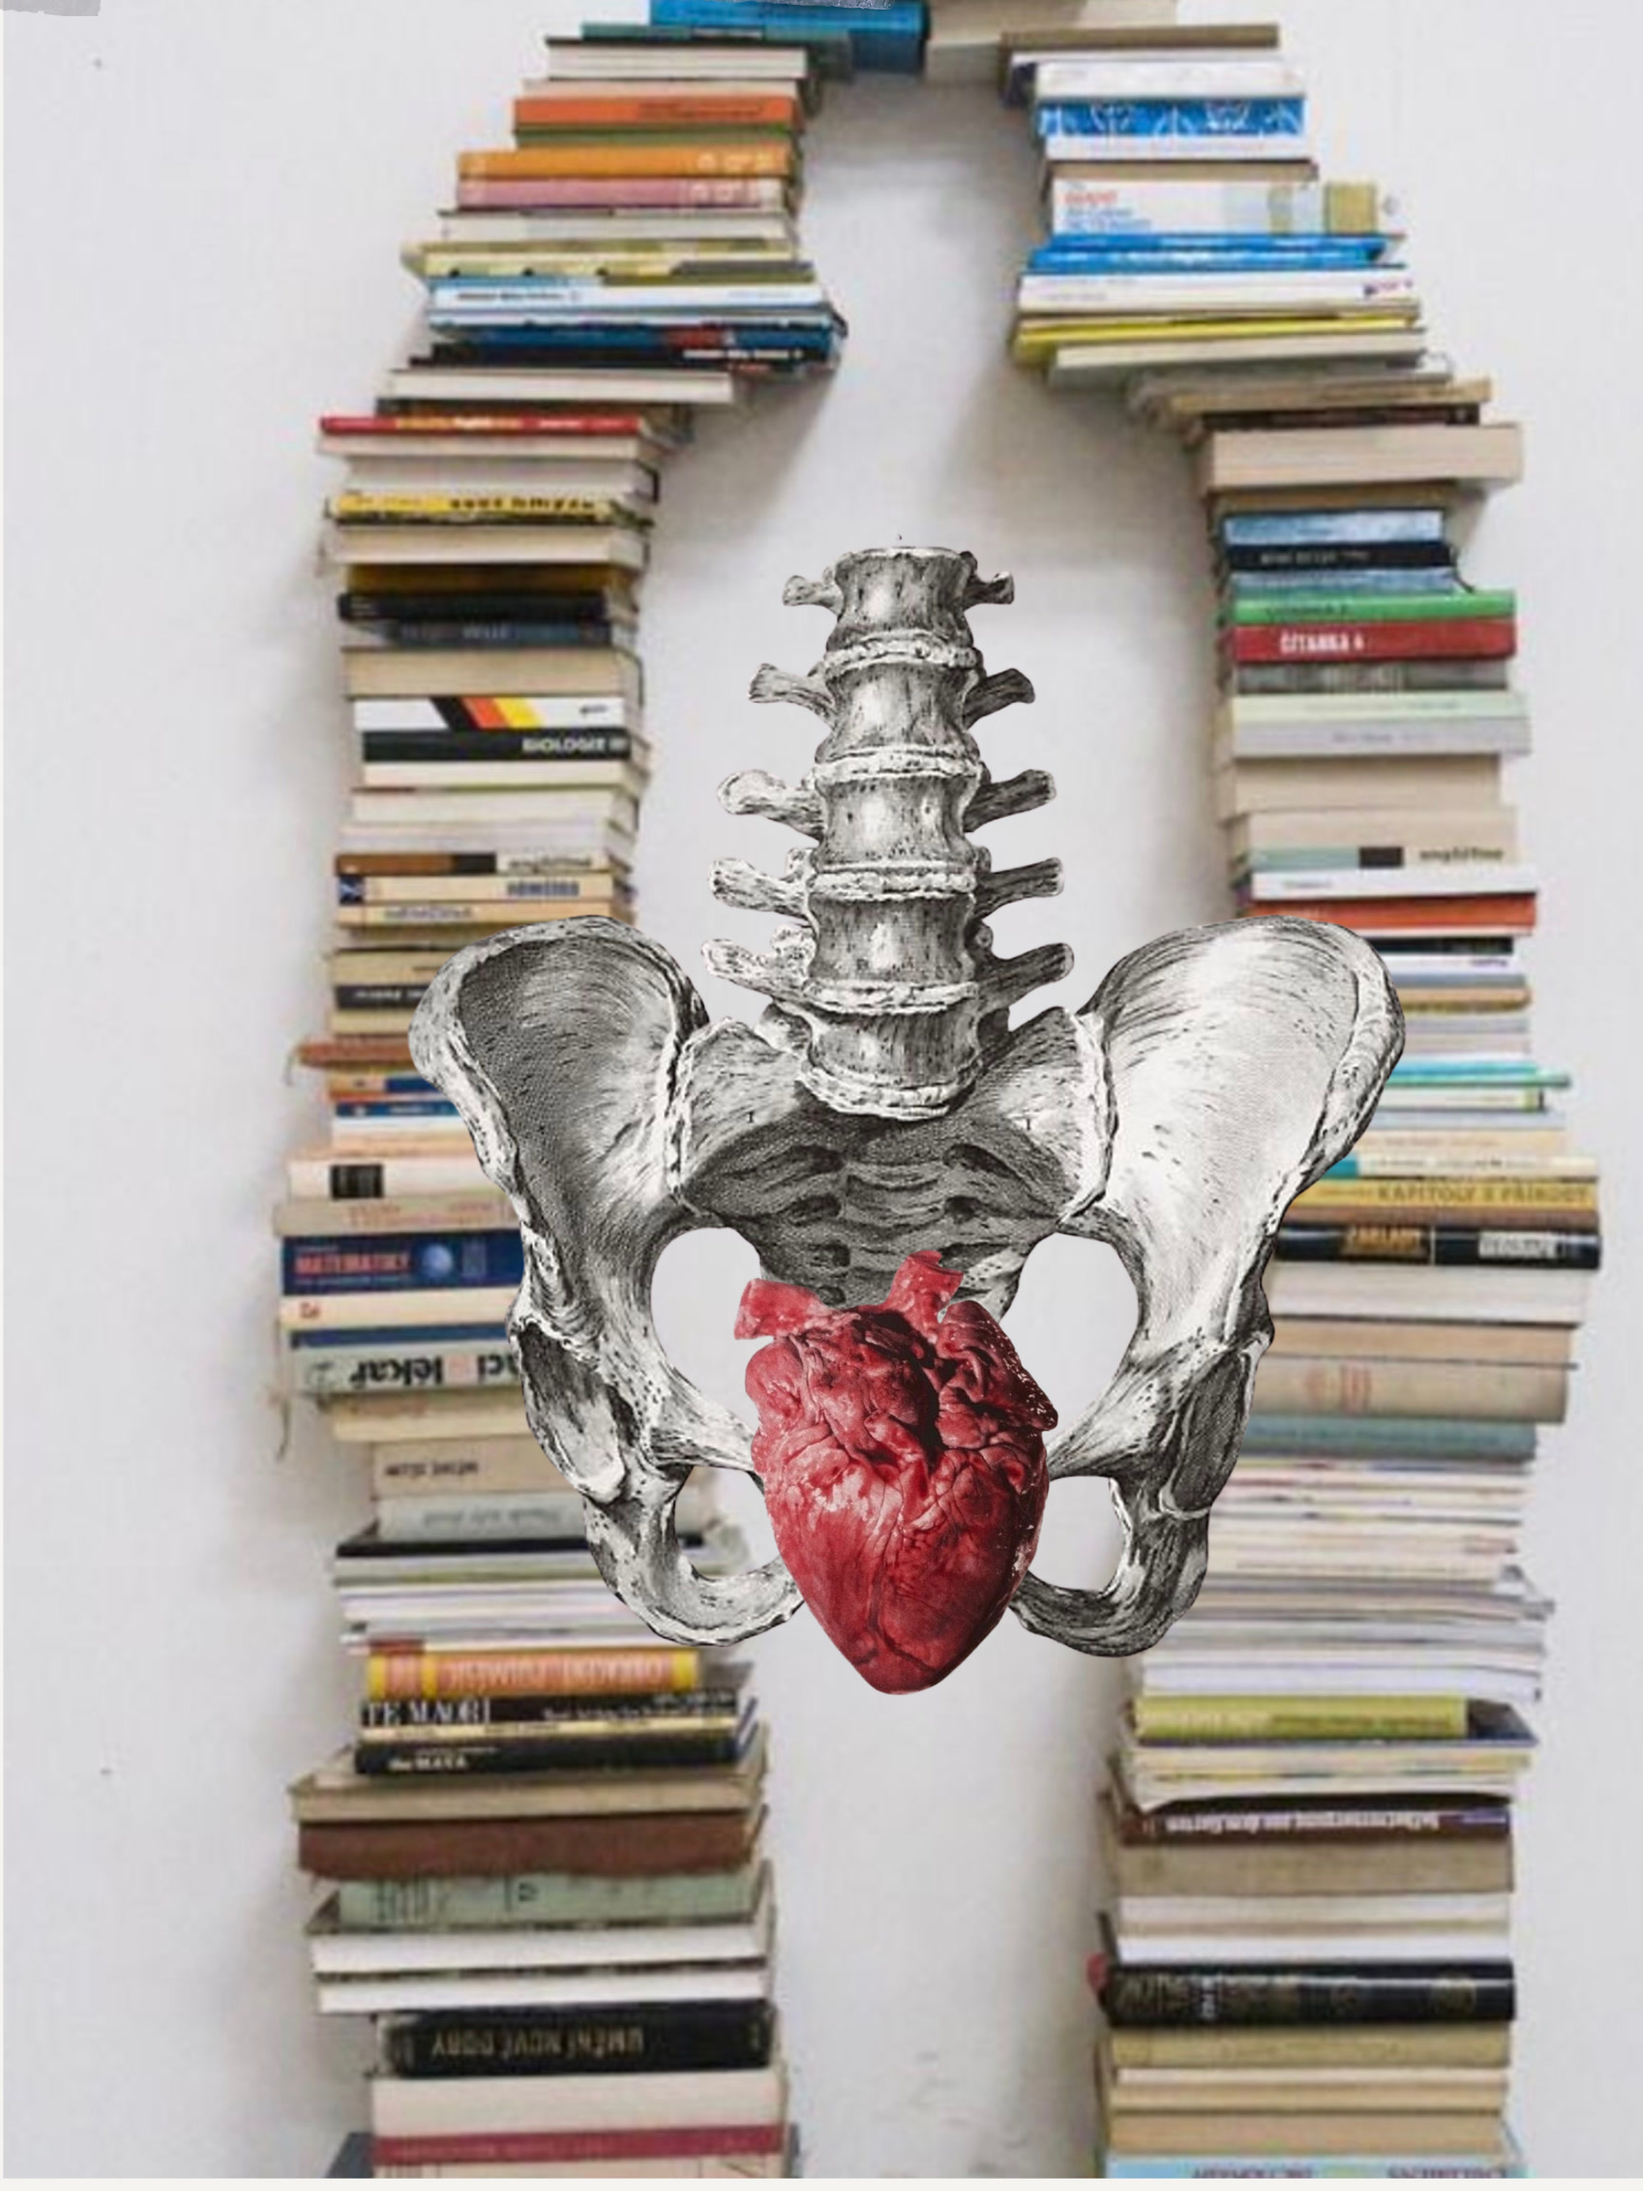
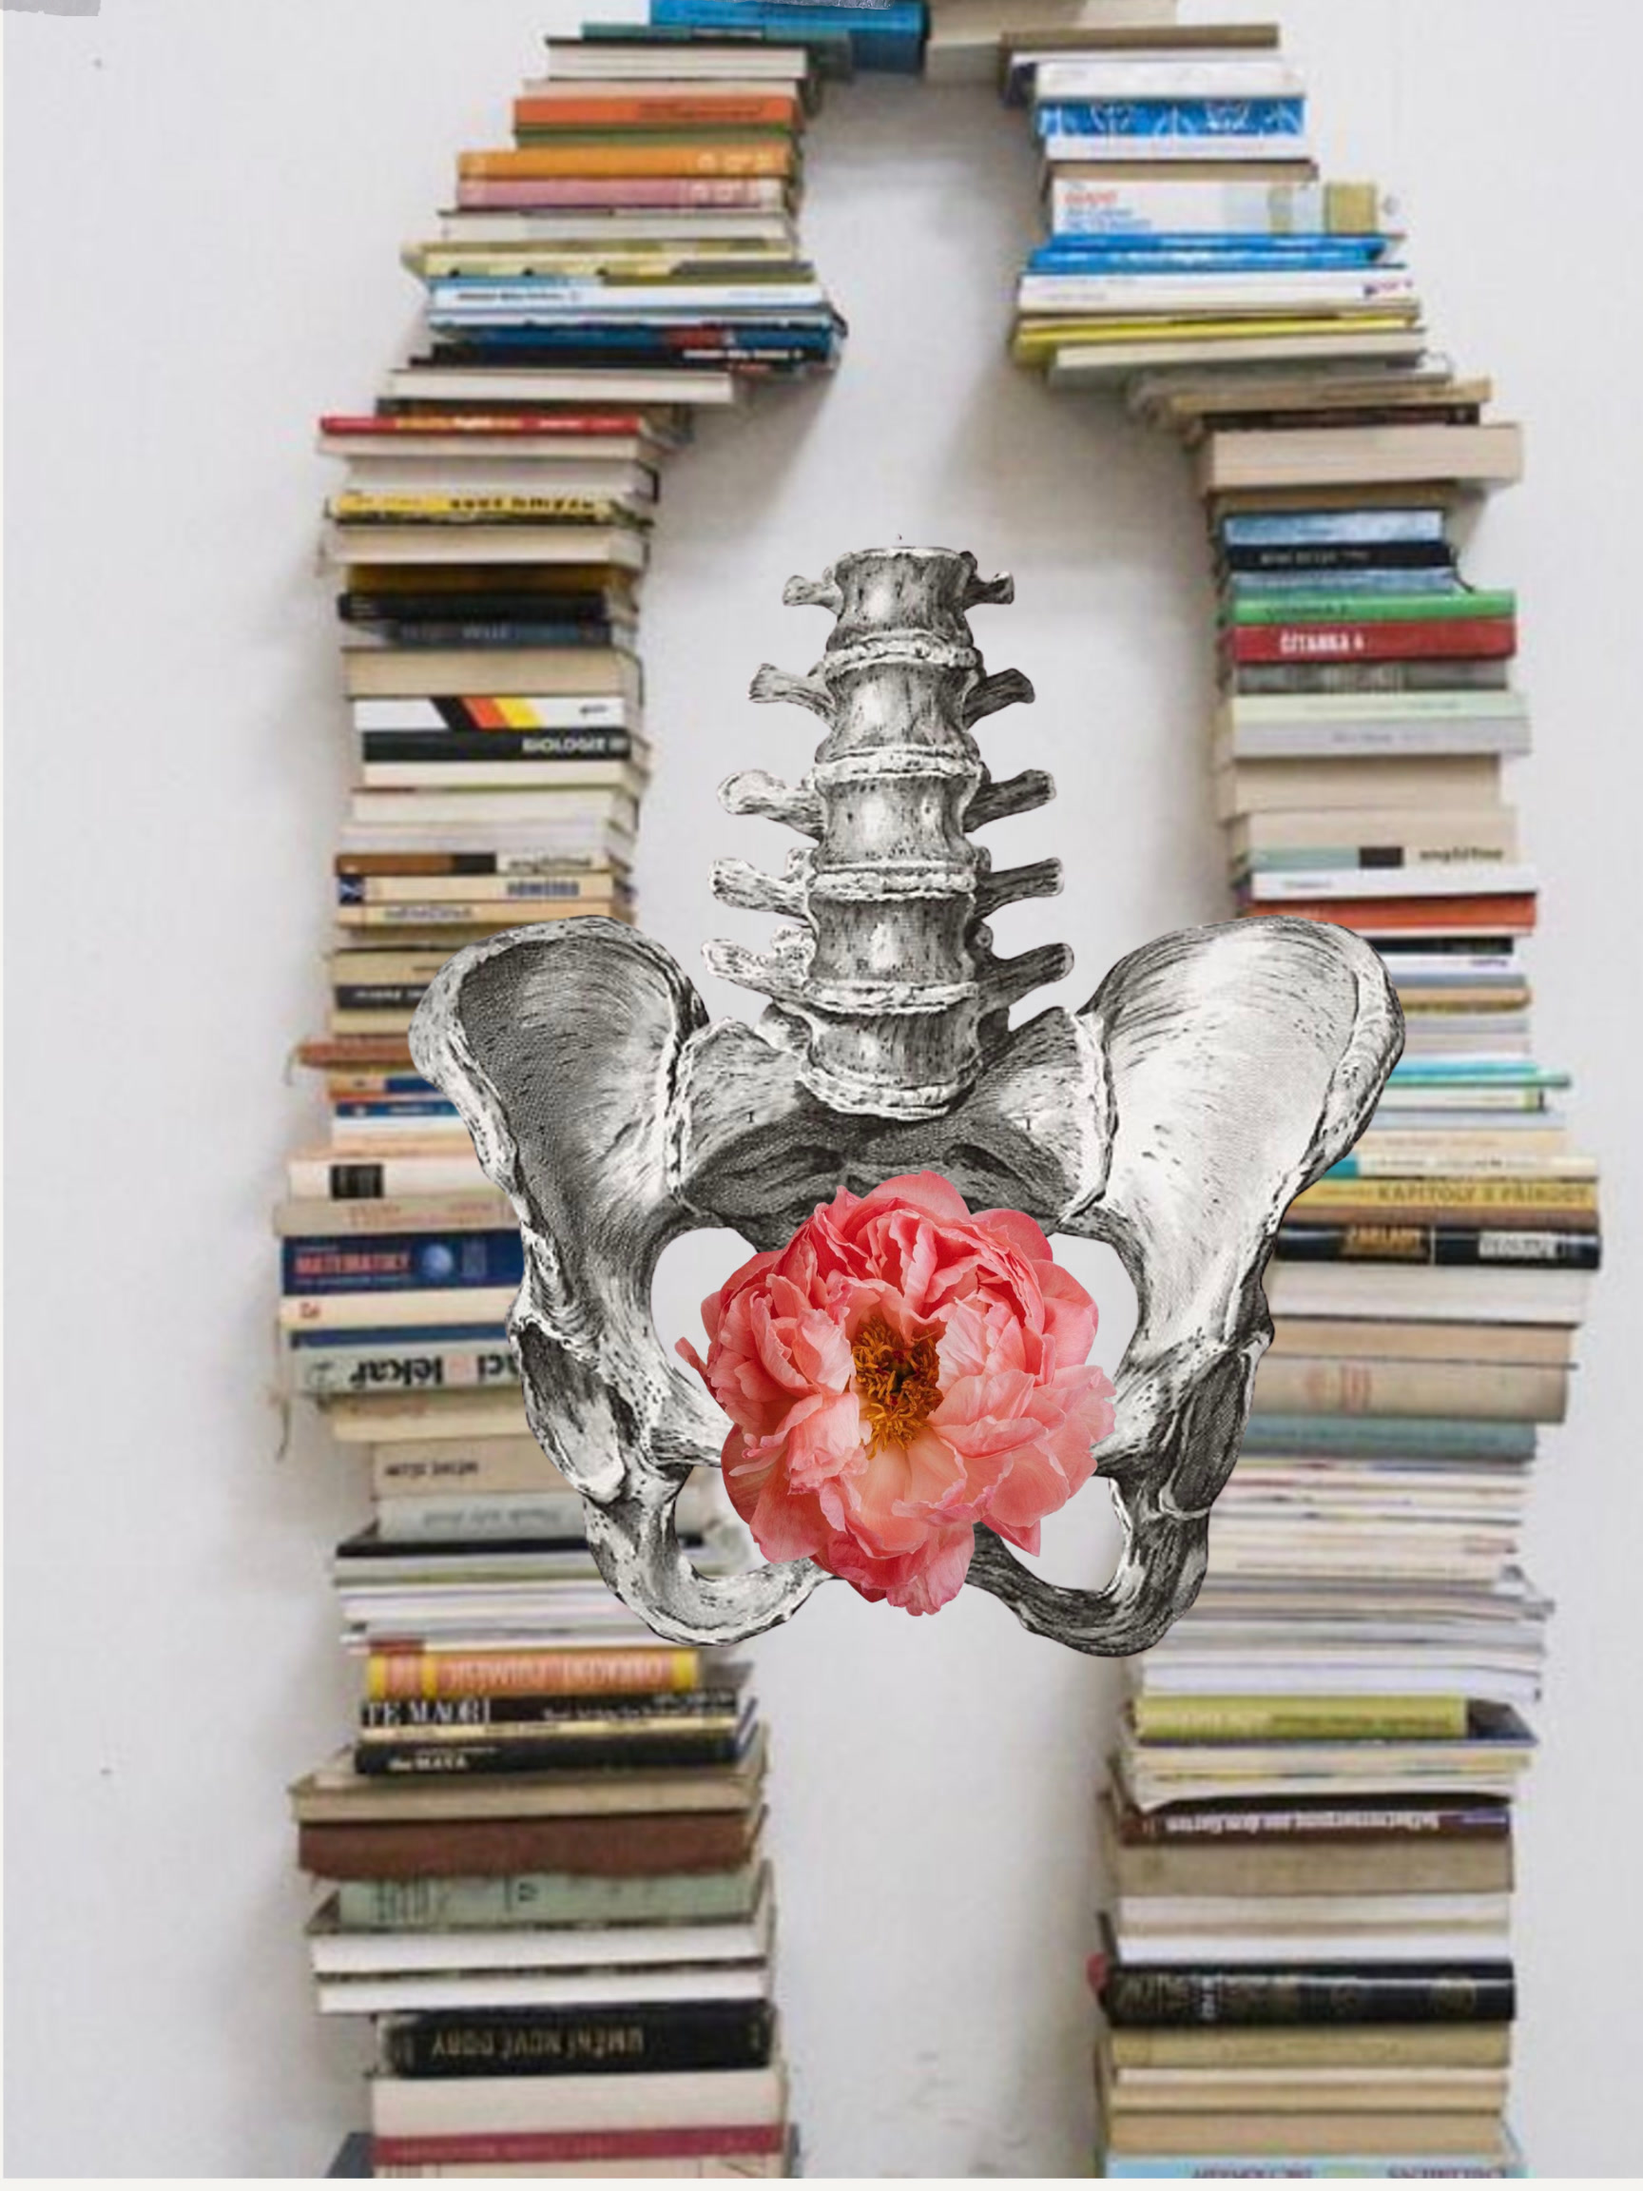
Resources: Library Archive card, the pelvis with a peony
Claude-Session: https://claude.ai/code/session_01SZ3UWSNK5XiynCnC4vnXqN

Changed region(s): [[0.4062, 0.5312, 0.6875, 0.7812]]

diff --git a/NOTES-STATUS.md b/NOTES-STATUS.md
@@ -187,7 +187,7 @@ Her text is in `content/offerings/*.md` (and the 1:1 prices in `content/sessions
 | Red Rose Visualization: new image | **Done (11/18)** — the rose over the painted waves (`rose-waves.jpg`), front and turned side; replaces the hands offering a rose (kept) |
 | Resources: remove the box under Erotic Becoming | **Done (11/18)** — the latest-posts list from the Substack feed (built in at deploy; showing her placeholder post "Coming soon"), redundant to the Newsletter link. src/substack.ts kept, unused |
 | Resources: Art → Inspiration, a card that turns | **Done (11/18)** — same turning card as the Red Rose (GiftCard, now taking its own id, image, label, name, turn word and back content). Front: Inspiration, EXPLORE →. Turned side for now: Joan’s Artist Portfolio, linked to joangutz.com (new tab). **Open:** the client's copy and links for it |
-| Resources: Library Archive card under Inspiration | **In progress (11/18)** — built (turning card, EXPLORE →) with option 1 as a stand-in image; nine images compared, awaiting the client's choice. Committed on the working branch only, not yet published to main. **Open:** its copy and links |
+| Resources: Library Archive card under Inspiration | **Done (11/19)** — turning card, EXPLORE →; image option 3 of nine (the pelvis with a peony among book stacks, `library-archive.jpg`), cropped low (50% 60%) so the whole flower shows. **Open:** its copy and links for the turned side |
 | The soundscape: Stu Pender's Pacific Equinox, a sound button, on repeat | **Done** — the control in the bar (SOUND on larger screens, the moving lines alone on a phone); never plays by itself; keeps playing from page to page; remembers the choice. Made to loop without a seam: the last fifteen seconds (the fade) blended into the first fifteen, so the end flows on into the beginning (details in `public/audio/README.md`). Her upload is kept in `content/_source/audio/` |
 | The sound button: a waveform, lines of varied weight, moving with the actual audio | **Done** — nine fine lines of uneven weight, still when off. Playing, each follows one band of the recording's sound (low at the centre, higher toward the edges), taller and a touch heavier as it swells; read from a small file made from each recording (`*.wave.json`, ~60 KB, loaded on first play), so a phone keeps playing with its screen locked. Works for the Red Rose too |
 | A gentle fade out when paused (about 5.5 s), no drop at the end | **Done** — 5.5 seconds, an S-curve squared: it leaves softly, falls evenly to the ear, lands softly at silence; the waveform settles with it. On iPhone and iPad a page cannot change volume, so there it pauses at once rather than play on at full volume |

diff --git a/assets/photos/README.md b/assets/photos/README.md
@@ -7,6 +7,7 @@ either — the filename decides which slot, the folder decides how it is credite
 |---|---|
 | `hero.jpg` | Home hero |
 | `resources-wing.jpg` | Resources, the opening banner (11/17; option 8 of eight), untouched (the client tried the Offerings treatment and chose the original, 11/18; the toned version is kept in `/content/_source/photos/resources-wing-toned.jpg`). `resources-flower.jpg`, the banner before, is kept |
+| `library-archive.jpg` | Resources, the Library Archive card (11/19; option 3 of nine), cropped low so the peony shows |
 | `rose-waves.jpg` | Resources, the Red Rose Visualization card, front and turned side (11/18, replacing `rose-offering.jpg`, which is kept) |
 | `rose-offering.jpg` | Resources, the Red Rose Visualization card, front and turned side (11/18; option 1 of two). `rose.jpg` is kept |
 | `erotic-becoming-hands.jpg` | Resources, the Erotic Becoming (Substack) card (11/18; option 2 of four). `library.jpg` is kept |
